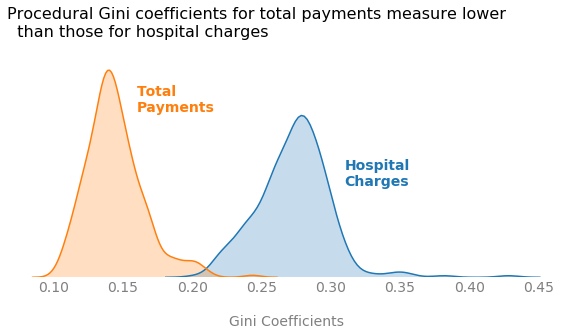
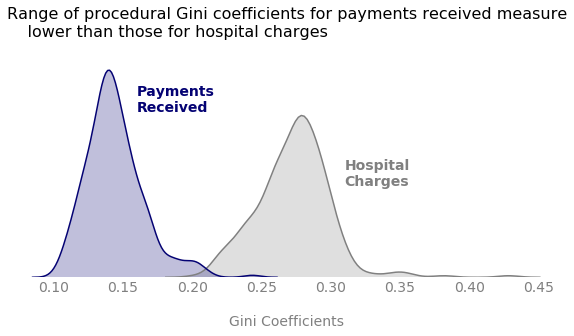
update gini_health image, update gini draft

diff --git a/_drafts/2020-05-02-gini-eda.md b/_drafts/2020-05-02-gini-eda.md
@@ -118,25 +118,27 @@ Slighly [more male births are born each year][10] and certainly more male babies
 
 Statistical dispersion appears to play a significant role in these data.  To put it back in financial terms, some male names like the ones on my top 20 list are just extremely "wealthy." (The most popular name, Michael, accounts for over 3% of all male children born since 1950.)   These ultra-popular masculine names likely pass down from generation to generation.  Females babies, on the other hand, are distributed more widely across a variety of names, so more names share in the "wealth" of female children.  We can verify this theory by returning to the Gini coefficient.
 
-<! -- here -->
-Firstly, consider how the "wealth" of children is dispersed among each female name.  Some names in the dataset are given to only 5 registered babies[^2] while other female names, like Jennifer, represent nearly 1.5 million individuals.  If we tally up all the females born with each name since 1950, we would find a huge disparity between the most and least popular names.  Following the same conventions presenting when defining Gini where we sort the names from least to most popular and then take the cumulative sum of females, we find the Gini coefficient for females to be 0.96 -- very near perfect inequality!
+Consider how female children disperse across each name.  Some names in the dataset account for only 5 babies[^2] since 1950, while "Jennifer" represents nearly 1.5 million individuals.  Tallying up all females born with each name since 1950 and sorting from least to most popular, we find the Gini coefficient to be 0.96 for female names, implying a huge disparity between the most popular and the most unique names.
 
-[^2]: The Social Security Administration does not include names that are less popular than 5 babies per gender per state due to privacy reasons.  Five children for one given female name is the absolution minimum allowed by this regulation.
+[^2]: The Social Security Administration does not include names that are given to fewer than 5 babies per gender per state due to privacy reasons; therefore, five children for one given female name since 1950 signifies the absolute minimum allowed.  Male names exhibit a very similar Lorenz curve but with slightly more skew, registering a Gini coefficient of 0.97. 
 
-
+<!--
 <center>
 <img src="{{ site.urlimg }}gini_females.png" alt="Gini coefficient for the popularity of female names " width = "700">
 </center> 
 <br>
+-->
 
-Male names exhibit a very similar Lorenz curve but slightly even more skewed, with a Gini coefficient of 0.97 when summing across all years since 1950.  This difference doesn't seem like much, but consider an alternate view where instead of aggregating across time, the Gini coefficient is calculated for each gender based off of yearly naming trends.  Plotting both the female and male Gini coefficient values for each year since 1950 demonstrates a clear and persistent pattern where the male coefficient is consistently slightly higher than the female value, thus indicating more inequity and statistical dispersion among the male names.  Some male names are very popular while others simply are not.  Female babies, on the other hand, are not only given a greater variety of names at birth but they are also spread among the available names more equally which means no one name is ever immensely popular throughout the population.  Also note that both Gini values have ticked downward since the 1990s indicating a trending preference toward more diverse naming conventions, and the Gini values displayed in the figure below are lower than the aggregate Gini values because popular name tend to be popular year after year, thus bolstering naming inequity.
+The difference between male and female Gini coefficients may appear insignificant, but consider an alternative viewpoint.  Instead of aggregating across time, calculate a yearly Gini coefficient for each gender.  Plotting both the female and male Gini coefficients for each year since 1950 demonstrates a clear and persistent pattern where the male coefficient presents consistently higher.[^3]  Thus male names experience more statistical dispersion than female monikers.   Also of note, the Gini values for both genders have ticked downward since the 1990s indicating a trending preference toward more diverse naming conventions. 
+
+[^3]: The Gini values displayed in the yearly figure are less than the aggregate because popular name tend to stay popular year after year thus bolstering naming inequity and increasing the Gini coefficient.
 
 <center>
 <img src="{{ site.urlimg }}gini_names.png" alt="The male Gini coefficient tracks consistently higher throughout time" width = "700">
 </center> 
 <br>
 
-As one final look into Gini with this dataset, now consider Gini as a tool to determine if a name has exhibited consistent popularity across time.  Here we are zooming in on female babies, grouping by name, and then calculating the Gini coefficient for the babies born with each name over the years.  Names with lower Gini coefficients demonstrate similar levels of popularity through out the entire timespan (e.g. "Miriam" below with about 1K babies each year) while a higher Gini indicates that name has seen uneven popularity over time (e.g. the sharp increase in babies named "Scarlett" below beginning at the turn of the millennium).  <span style="color:blue">Mention that both names had about 60K female babies over the course of time.  More explanation on this: for each name, least to most popular years lined up and cumulative sum applied </span>
+In a final look at this dataset, let's examine popularity trends for individual names over time.  We can utilize Gini to study this topic by grouping the female data by name and calculating the Gini coefficient as it pertains to yearly frequencies; that is, for any given name, sort each year of the dataset by that name's least to most popular year in order to compute Gini.  Names with lower Gini coefficients demonstrate similar levels of popularity throughout the entire time span, while higher coefficients imply uneven popularity levels.  The figure below compares popularity trends for the names "Scarlett" and "Miriam."  Both names represent about 60,000 female babies in the dataset; however, the sharp increase in babies named "Scarlett" since the turn of the millennium generates a large Gini coefficient while "Miriam" sees a low Gini value since the name has consistently been given to approximately 1,000 babies each year since 1950. 
 
 <center>
 <img src="{{ site.urlimg }}scarlett_vs_miriam.png" alt="The popularity of female names Miriam and Scarlett over time with Gini coeffients" width = "900">
@@ -146,23 +148,24 @@ As one final look into Gini with this dataset, now consider Gini as a tool to de
 
 ## Case \#2: Healthcare Prices
 
-For this second example, consider [this 2017 dataset][11] hosted by the Centers for Medicare and Medicaid Services, a federal agency of the United States.  These data, aggregated as procedural averages across hospitals, include the billing charges and eventual payments for over 500 separate inpatient procedures and diagnoses for Medicare patients.  I applied Gini coefficient calculations to determine which, if any, procedures require better billing standardization with the underlying basis for this analysis that the higher the Gini coefficient, the greater the disparity among what hospitals charges on average for a given procedure.
 
-The diagnosis exhibiting the highest Gini coefficient among average hospital charges in this dataset[^3] is labeled as, "Alcohol/Drug Abuse or Dependency w Rehabilitation Therapy."  This is perhaps unsurprising given that rehabilitation therapies vary widely both in terms of treatment length and illness severity.  In fact, all other procedures and diagnoses with the top five highest Gini coefficients, such as coagulation disorders and psychoses, can also vary in severity.  Procedures that show the most uniformity in terms of hospital charges, on the other hand, typically describe one-time cardiac events such as value replacement, percutaneous surgeries, or observation for chest pain.
+Now consider [this 2017 healthcare pricing dataset][11] hosted by the Centers for Medicare and Medicaid Services, a federal agency of the United States.  These data, aggregated as procedural averages for individual hospitals, include the charges and eventual payments for over 500 separate inpatient procedures/diagnostic groups for Medicare patients.  To determine which, if any, procedures require better billing standardization, I applied Gini coefficient calculations.  The underlying basis for my analysis boils down to this: the higher the Gini coefficient, the greater the disparity in what different hospitals charge for a given procedure.  Procedures with large Gini values could necessitate regulation or transparent cost details.
 
-[^3]: Some diagnosis related groups (DRGs) in this dataset occur at as few as one hospital for the entire year.  I have filtered the dataset down to procedures that are documented by at least 50 hospitals to avoid high variance issues.
+The diagnosis related group (DRG) with the highest Gini coefficient in this dataset[^4] is labeled as, "Alcohol/Drug Abuse or Dependency w Rehabilitation Therapy."  This finding perhaps elicits little surprise given that rehabilitation therapies vary widely both in terms of treatment length and illness severity.  In fact, all diagnoses with the top Gini coefficients may vary in severity, such as coagulation disorders and psychoses.  Procedural charges that show the most uniformity among hospital charges, on the other hand, mostly describe one-time cardiac events such as value replacement, percutaneous surgeries, or observation for chest pain.
+
+[^4]: Some diagnosis related groups (DRGs) in this dataset occur at as few as one hospital for the entire year.  I have filtered the dataset down to procedures that are documented by at least 50 hospitals to avoid high variance issues.
 
 <center>
 <table width="800">
-  <caption>Gini coefficients among average hospital charges per diagnosis (DRG)</caption>
+  <caption>Gini coefficients among average hospital charges per diagnosis related group (DRG)</caption>
   <colgroup>
     <col span="1" style="width: 50%;">
     <col span="1" style="width: 50%;">
   </colgroup>
   <thead>
     <tr>
-      <th>Highest Gini</th>
-      <th>Lowest Gini</th>
+      <th><center>Highest Gini</center></th>
+      <th><center>Lowest Gini</center></th>
     </tr>
   </thead>
   <tbody >
@@ -190,13 +193,14 @@ The diagnosis exhibiting the highest Gini coefficient among average hospital cha
 </table>
 </center>
 
-So what about billing regulation?  Do we need more safeguards in place to be sure hospitals are charging similar amounts for similar procedures?  Well, more transparency certainly wouldn't hurt when estimating realistic costs, especially for treatments that vary in duration or intensity, but let's return back to the original dataset.  Information is provided for both the amount charged by the hospitals, which has been analyzed thus far, as well as [the total payments the hospitals actually received for the procedures][12].  The data exhibit much lower Gini coefficients when applying procedural Gini calculations to the total payments instead.  In fact, the Gini coefficient is lower for the total payments than the hospital charges, for *every single procedure*.  This fancinating insight indicates that the contracts Medicare has in place with US hospitals really are already doing a lot to moderate and regularize procedural costs.  
+So what about billing regulation?  Do we need more safeguards in place to be sure hospitals are charging similar amounts for similar procedures?  Well, more cost transparency certainly doesn't hurt, especially for treatments that range in duration or intensity, but let's go back to the dataset.  In addition to the information about the amounts hospitals charge, the dataset also lists [the total payments that the hospitals actually received][12].  Applying the same type of Gini analysis to the payments received yields much lower Gini values.  In fact, the Gini coefficient is lower for the average payments received than the hospital charges, for *every single procedure*.  This curious insight signals that the contracts in for Medicare payments already do quite a lot to moderate and regularize procedural costs.[^5]
+
+[^5]: The payments hospitals receive are strictly less than the amounts they charge, but decreasing a dataset's mean while holding its standard deviation fixed [actually _increases_ the Gini coefficient][15].  Here we observe just the opposite effect so statistical dispersion must be lessened for the payments received.
 
 <center>
 <img src="{{ site.urlimg }}gini_health.png" alt="Comparison of Gini coeffients for total payments vs hospital charges" width = "600">
 </center> 
 
-<span style='color:blue'>Change title to approximate distribution...</span>
 
 ## Conclusion
 
@@ -230,5 +234,6 @@ No matter which metric for statistical dispersion you choose, building data intu
  [12]: https://www.cms.gov/Research-Statistics-Data-and-Systems/Statistics-Trends-and-Reports/Medicare-Provider-Charge-Data/Downloads/Inpatient_Outpatient_FAQ.pdf
  [13]: https://stats.stackexchange.com/questions/210829/difference-is-summary-statistics-gini-coefficient-and-standard-deviation/211595
  [14]: https://www.scientificamerican.com/article/ask-gini/
+ [15]: https://repository.upenn.edu/gse_grad_pubs/6/
  
  
